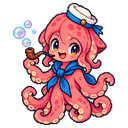
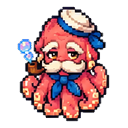
Squid Sailor redesign from the owner's renders: an old moustached ferry captain (dialogue face, full portrait, and map sprite in four directions); earlier art kept in old_v1/old_v2

diff --git a/tools/anime_cast_import.py b/tools/anime_cast_import.py
@@ -75,7 +75,7 @@ def sheet(src, key):
     im = Image.open(src)
     W = im.width
     a, fg, fl, boxes = figures(im, 0.0015)
-    grid = [s for s in boxes if s[1].start > W * 0.58]
+    grid = [s for s in boxes if s[1].start > W * 0.565]
     rows = []
     for s in sorted(grid, key=lambda s: s[0].start):
         if rows and abs(rows[-1][0][0].start - s[0].start) < 60:
